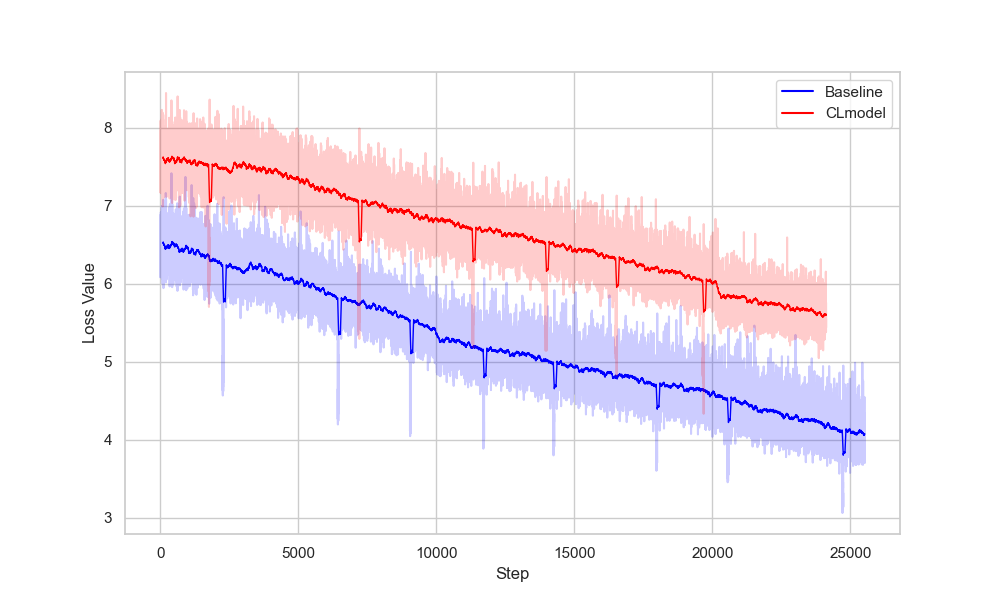
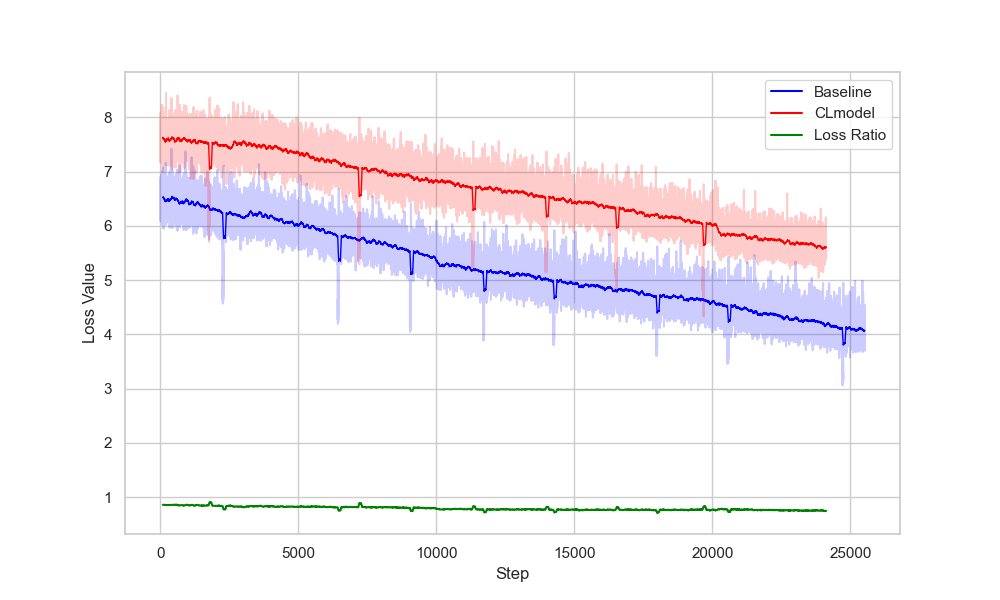
show_ratio new plots

diff --git a/analysis/loss_plot.py b/analysis/loss_plot.py
@@ -25,7 +25,7 @@ def plot_loss(
     key_names: list,
     smooth: int = 25,
     raw: bool = False,
-    ratio: bool = False,
+    show_ratio: bool = False,
     verbose: bool = False,
 ):
     """
@@ -117,7 +117,7 @@ def plot_loss(
             legend_name.append(key_name.capitalize().replace("_", " "))
 
     # Plot loss ratio
-    if key_name[0] == "loss":
+    if show_ratio:
         # Shorten to the shortest length
         shortest = min(len(ratio[0]), len(ratio[1]))
         ratio[0] = ratio[0][:shortest]
@@ -127,11 +127,10 @@ def plot_loss(
         plt.plot(
             pd.DataFrame(ratio[0] / ratio[1]).rolling(smooth).mean(),
             color="green",
-            linestyle=linestyles[1],
         )
 
         # Add to legend with custom handles
-        legend_line.append(Line2D([0], [0], color="black", linestyle=linestyles[1]))
+        legend_line.append(Line2D([0], [0], color="green"))
         # Add to legend with custom name
         legend_name.append("Loss Ratio")
 
@@ -264,10 +263,10 @@ if __name__ == "__main__":
         ],
     }
 
-    rename_csv_files("analysis")
+    # rename_csv_files("analysis")
 
     # Process all files
     process_all_csv(version_run_names, smooth=2500)
 
     # Process singe file
-    plot_loss(version_run_names, ["loss"], smooth=100, raw=True, ratio=True)
+    plot_loss(version_run_names, ["loss"], smooth=100, raw=True, show_ratio=True)
